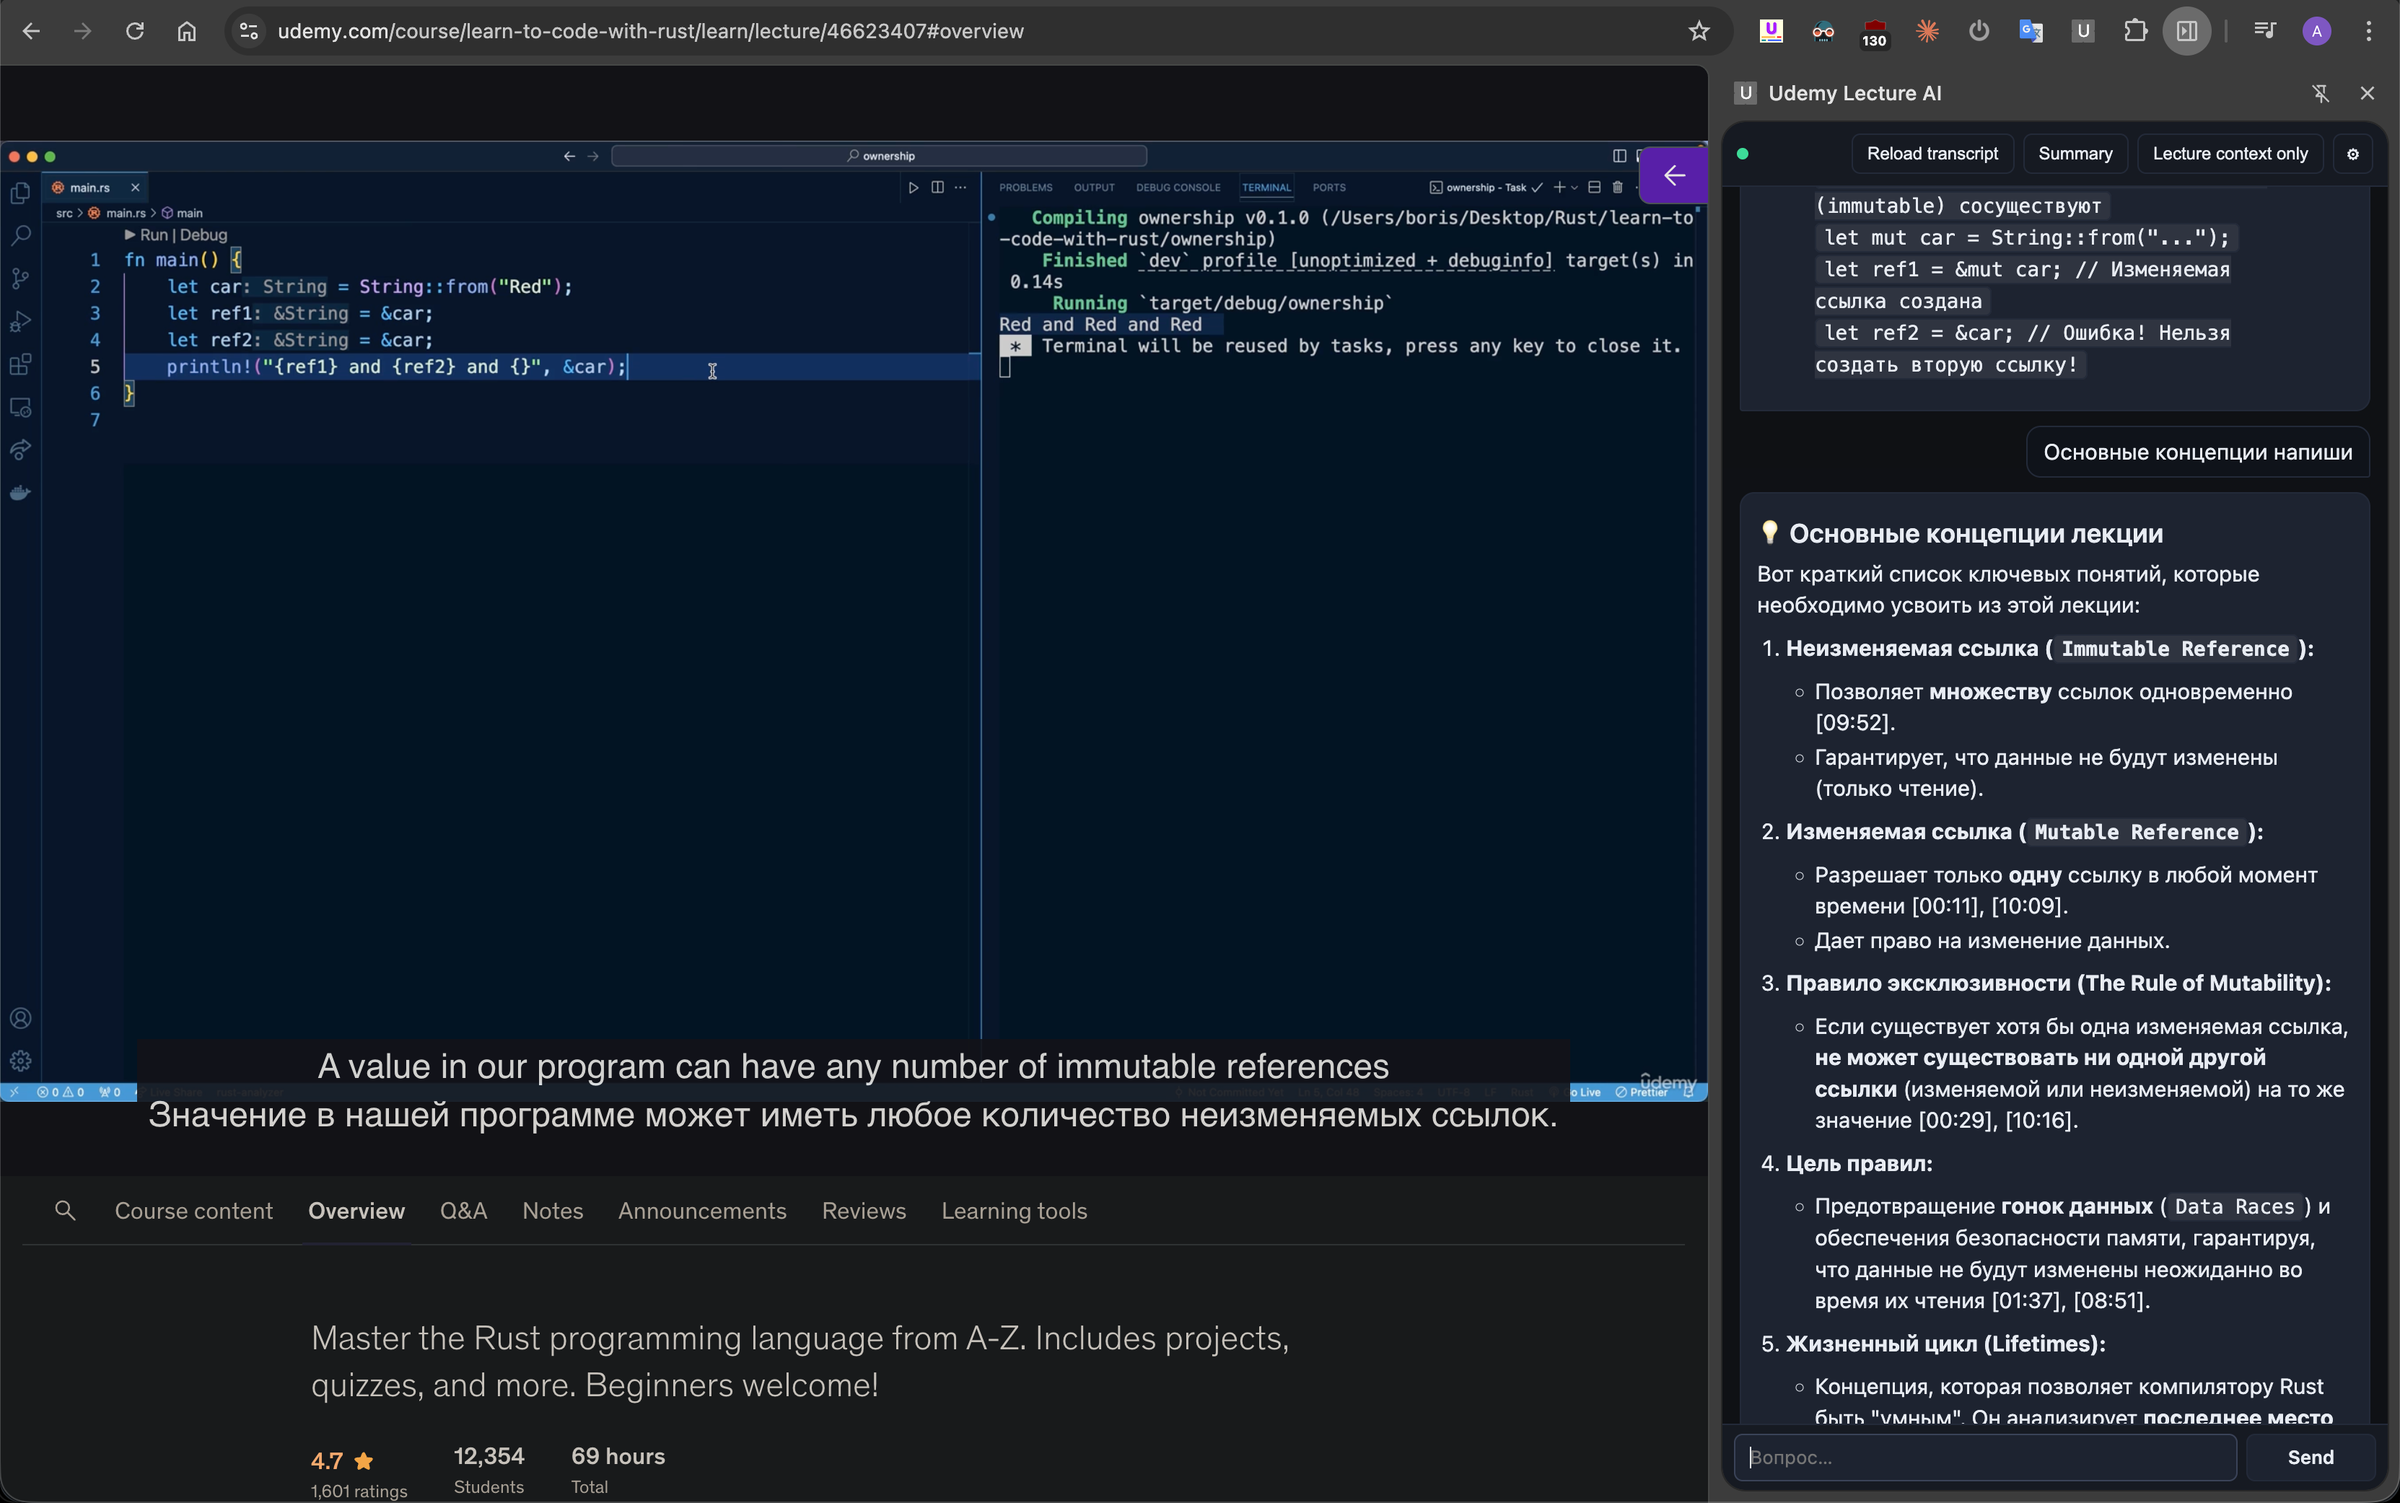
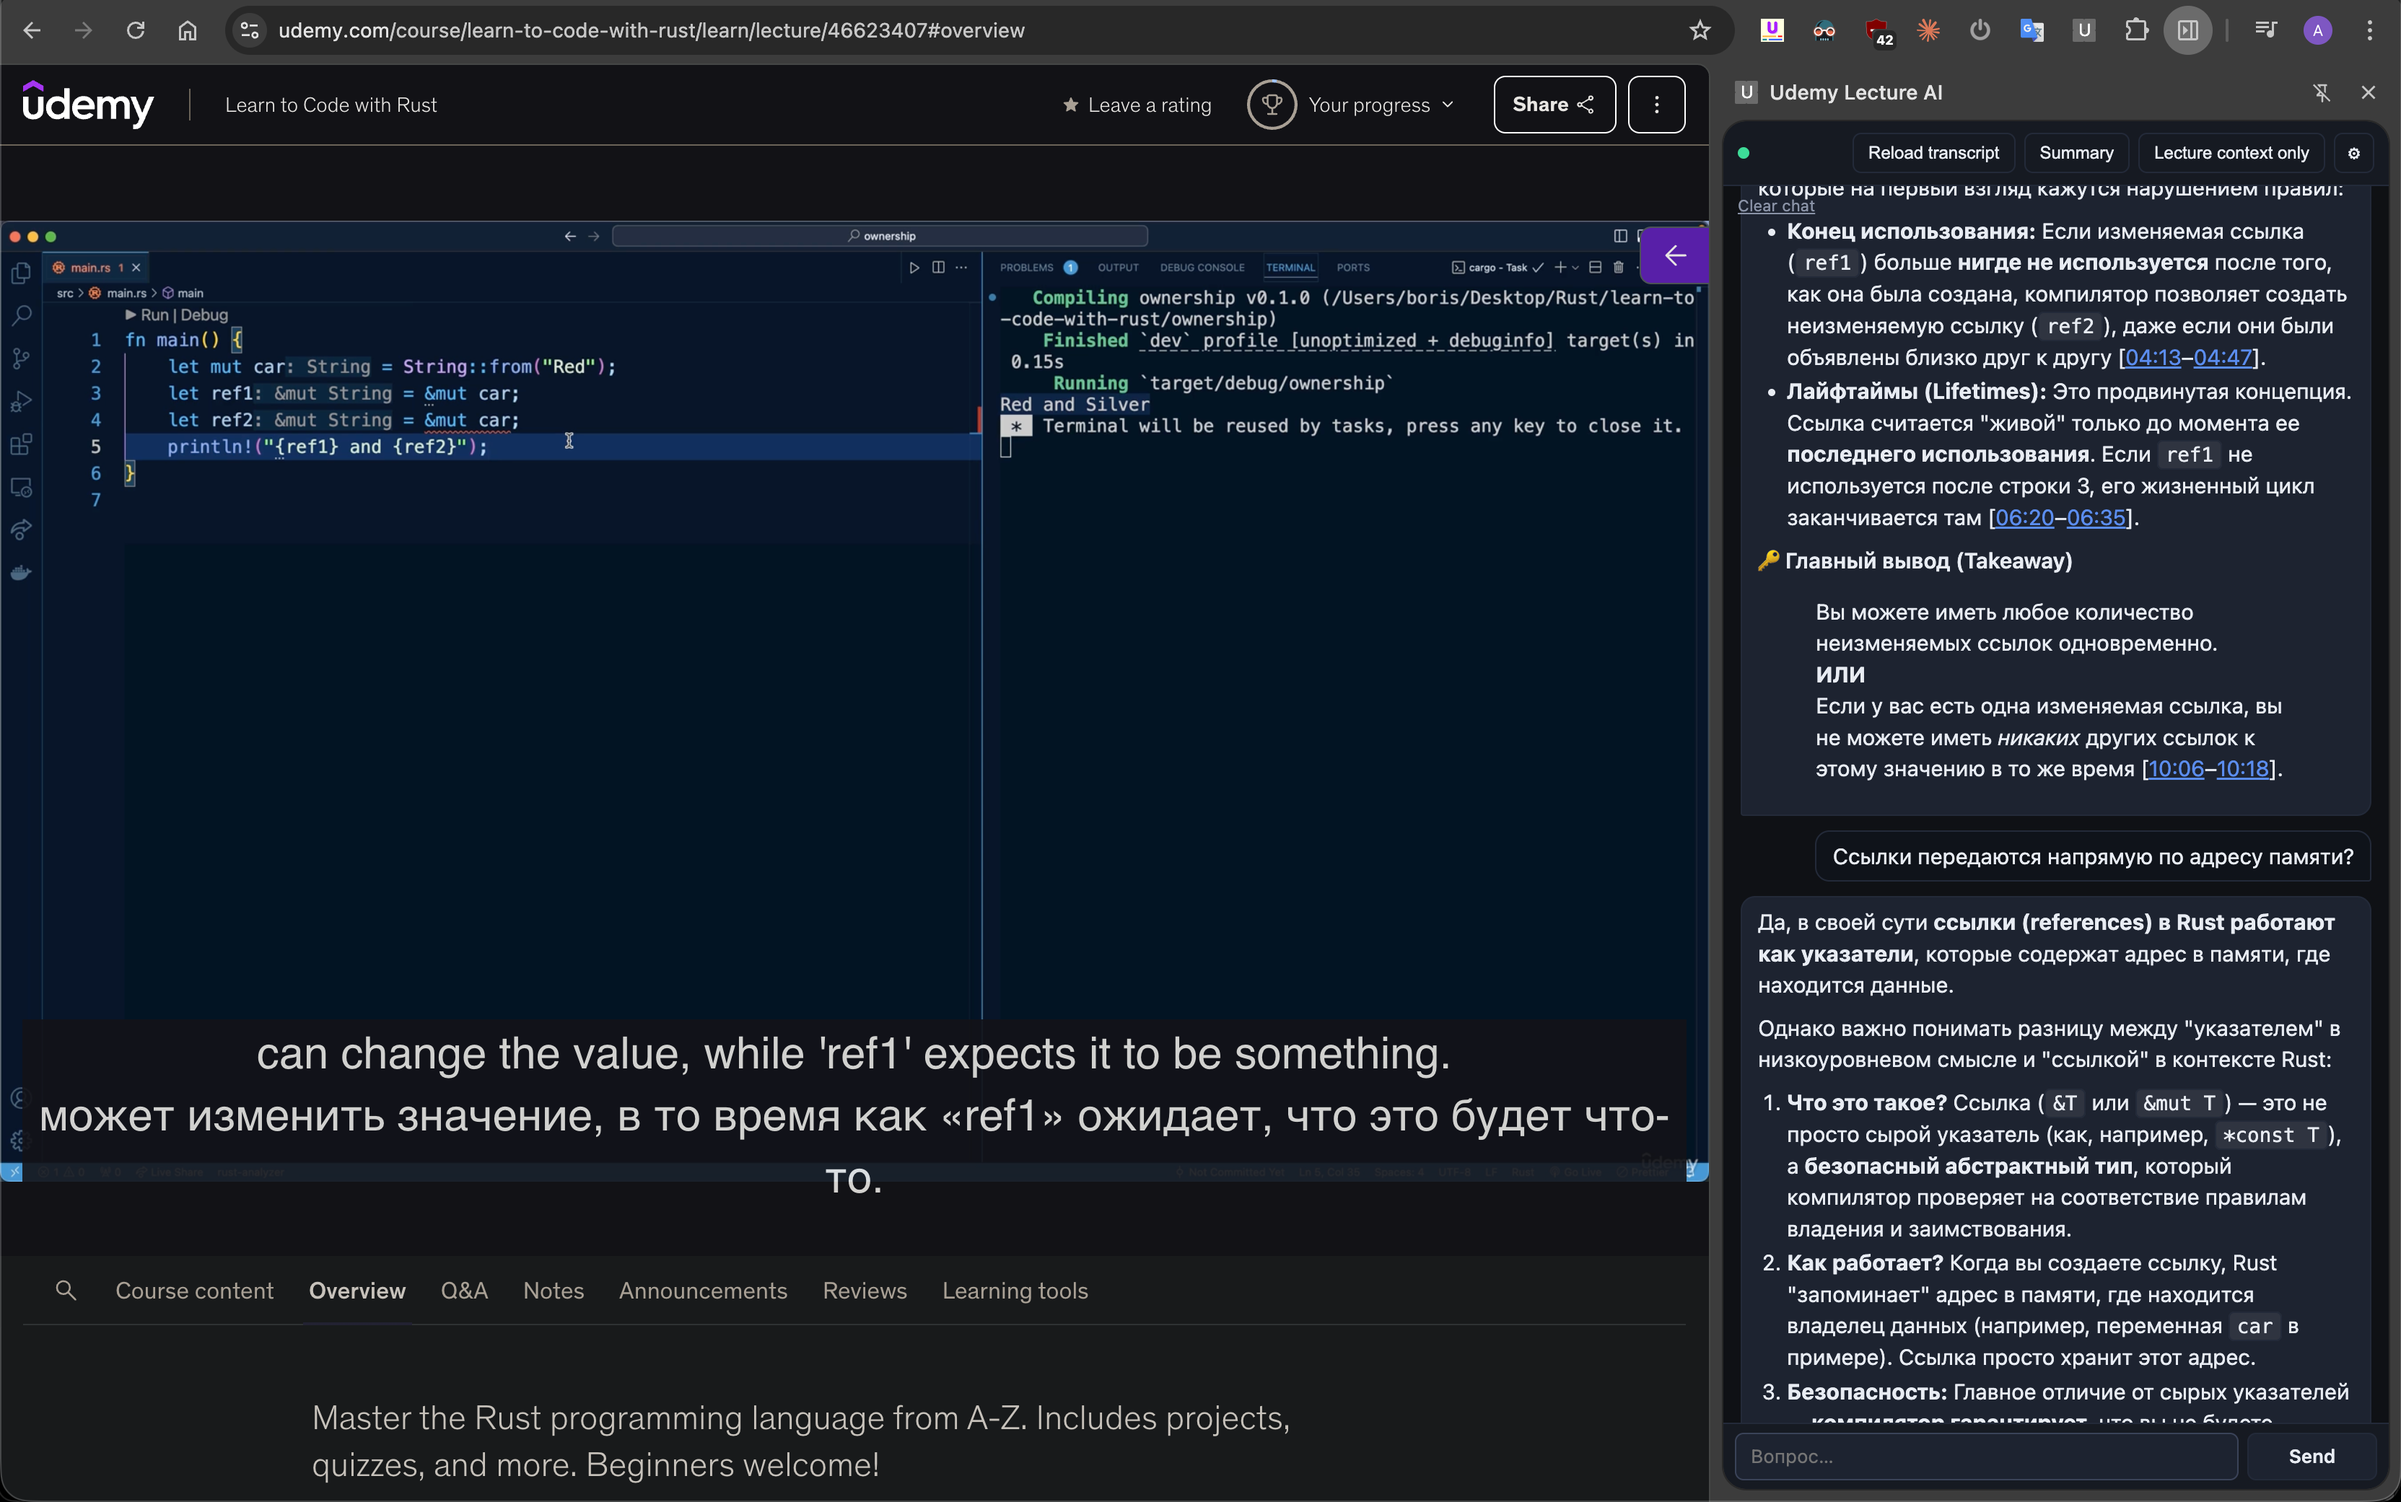
Add Clear chat link in the top-left corner of the chat area

diff --git a/sidepanel.js b/sidepanel.js
@@ -14,6 +14,7 @@ const els = {
   saveSettings: $('#save-settings'),
   loadTranscript: $('#load-transcript'),
   summarize: $('#summarize'),
+  clearChat: $('#clear-chat'),
   stopBtn: $('#stop-btn'),
   strictMode: $('#strict-mode'),
   messages: $('#messages'),
@@ -363,6 +364,13 @@ els.loadTranscript.addEventListener('click', loadTranscript);
 els.summarize.addEventListener('click', summarize);
 els.stopBtn.addEventListener('click', () => {
   state.abortController?.abort();
+});
+els.clearChat.addEventListener('click', (e) => {
+  e.preventDefault();
+  state.abortController?.abort();
+  state.history = [];
+  els.messages.innerHTML = '';
+  els.askInput.focus();
 });
 els.messages.addEventListener('click', async (e) => {
   const link = e.target.closest('a.ts-link');

diff --git a/sidepanel.css b/sidepanel.css
@@ -126,7 +126,19 @@ button.ghost:disabled { opacity: 0.45; cursor: not-allowed; }
   display: flex;
   flex-direction: column;
   min-height: 0;
+  position: relative;
 }
+.clear-link {
+  position: absolute;
+  top: 6px;
+  left: 10px;
+  z-index: 2;
+  font-size: 11px;
+  color: var(--muted);
+  text-decoration: underline;
+  cursor: pointer;
+}
+.clear-link:hover { color: var(--text); }
 .messages {
   flex: 1;
   overflow-y: auto;

diff --git a/sidepanel.html b/sidepanel.html
@@ -49,6 +49,7 @@
     </section>
 
     <section class="chat" id="chat">
+      <a id="clear-chat" class="clear-link" href="#" title="Clear chat">Clear chat</a>
       <div id="messages" class="messages"></div>
       <form id="ask-form" class="composer">
         <input
